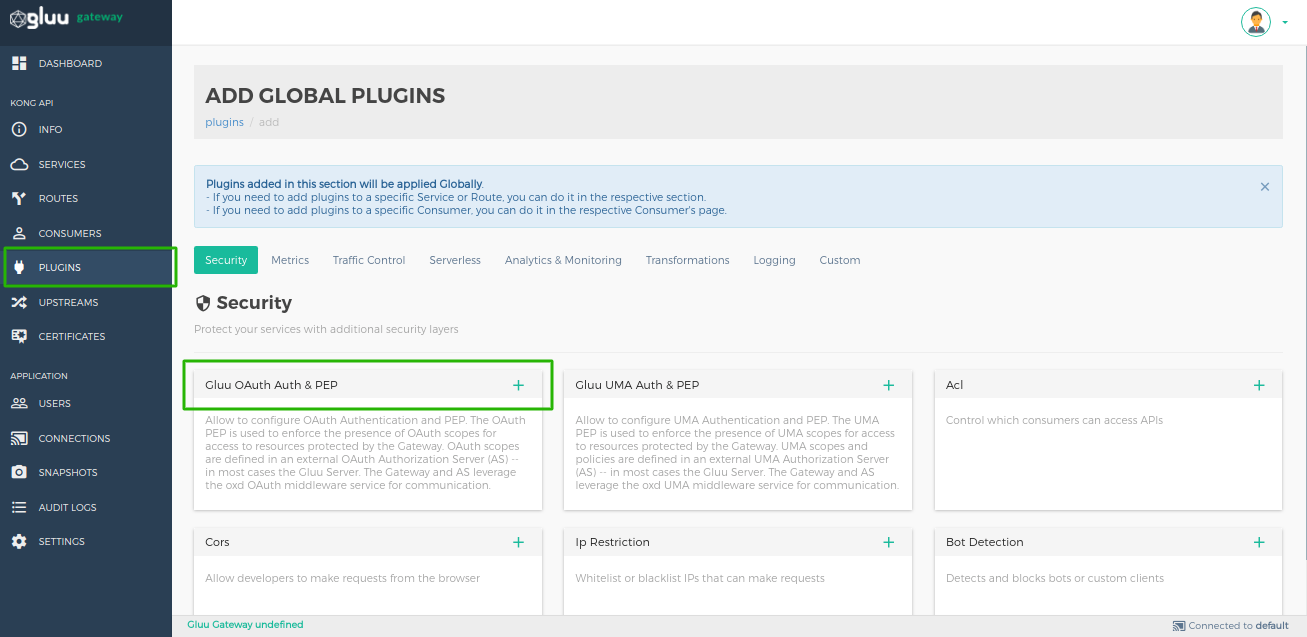
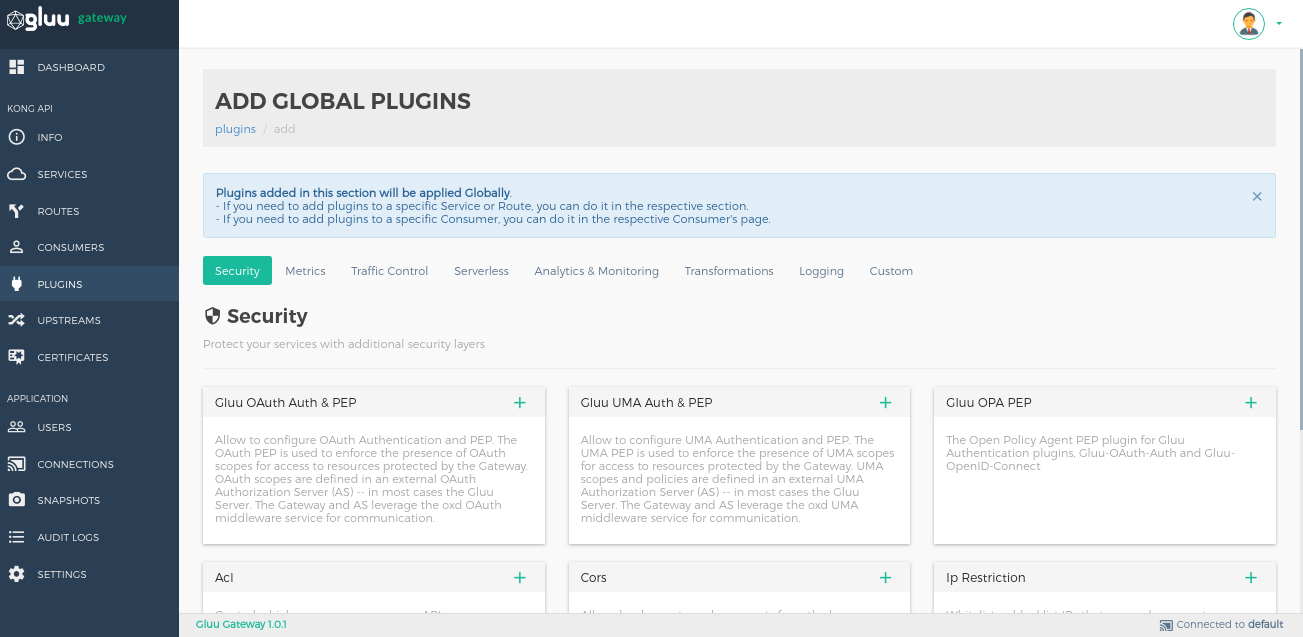
Update description and screenshots

diff --git a/docs/source/plugin/gluu-opa-pep.md b/docs/source/plugin/gluu-opa-pep.md
@@ -1,7 +1,7 @@
 # Gluu OPA PEP
 ## Overview
 
-**`gluu-opa-pep`** authorization plugin which interacts with the [Open Policy Agent](https://www.openpolicyagent.org/). It is executed after the Gluu authentication plugins i.e. `gluu-openid-connect` and `gluu-opa-pep`. After client authentication, data is passed to the `gluu-opa-pep` plugin which calls the OPA authorization endpoint (specified in the configuration). The plugin priority is `996`.
+**`gluu-opa-pep`** authorization plugin which interacts with the [Open Policy Agent](https://www.openpolicyagent.org/). It is executed after the Gluu authentication plugins i.e. `gluu-openid-connect` and `gluu-oauth-auth`. After client authentication, data is passed to the `gluu-opa-pep` plugin which calls the OPA authorization endpoint (specified in the configuration). The plugin priority is `996`.
 
 !!! Important
     You can configured only one PEP plugin. If you have already configured `gluu-uma-pep` or `gluu-oauth-pep` then GG will not allow you to configure `gluu-opa-pep`.
@@ -73,9 +73,9 @@ Below is a sample:
    }
    ```
 
-- `gluu-opa-pep` case: 
+- `gluu-oauth-auth` case: 
 
-     Below is the example of data when authentication plugin is `gluu-opa-pep`. You will get `token introspection` detail in `request_token_data` property.
+     Below is the example of data when authentication plugin is `gluu-oauth-auth`. You will get `token introspection` detail in `request_token_data` property.
    ```json
    {
      "input": {
@@ -159,9 +159,6 @@ Use the [Manage Service](../admin-gui/#manage-service) section in the GG UI to e
 ![11_path_oauth_service](../img/17_opa_service_add.png)
 
 Clicking on the **+** icon will bring up the below form.
-
-!!! important
-    If you don't wanna add `gluu-oauth-pep` plugin then disable button which is on the top.
 
 ![11_path_add_oauth_service](../img/17_opa_form.png)
 

diff --git a/docs/source/plugin/gluu-openid-connect-uma-pep.md b/docs/source/plugin/gluu-openid-connect-uma-pep.md
@@ -238,37 +238,7 @@ At runtime, the plugin sends a request to the RS with an RPT token and checks th
 
 #### Dynamic Resource Protection
 
-There are 3 elements to make more dynamic path registration and protection:
-
-- ? match any one path element
-- ?? match zero or more path elements
-- {regexp} - match single path element against PCRE
-
-The priority for the elements are:
-
-1. Exact match
-1. Regexp match
-1. ?
-1. ??
-
-!!! Note
-    slash(/) is required before multiple wildcards placeholder.
-    
-Examples: 
-
-Assume that below all path is register in one plugin
-
-| Register Path | Allow path | Deny path |
-|---------------|------------|-----------|
-| `/folder/file.ext` | <ul><li>/folder/file.ext</li></ul> | <ul><li>/folder/file</li></ul> |
-| `/folder/?/file` | <ul><li>/folder/123/file</li> <li>/folder/xxx/file</li></ul> | |
-| `/path/??` | <ul><li>/path/</li> <li>/path/xxx</li> <li>/path/xxx/yyy/file</li></ul> | <ul><li>/path - Need slash at last</li></ul> |
-| `/path/??/image.jpg` | <ul><li>/path/one/two/image.jpg</li> <li>/path/image.jpg</li></ul> | |
-| `/path/?/image.jpg` | <ul><li>/path/xxx/image.jpg - ? has higher priority than ??</li></ul> | |
-| `/path/{abc|xyz}/image.jpg` | <ul><li>/path/abc/image.jpg</li> <li>/path/xyz/image.jpg</li></ul> | |
-| `/users/?/{todos|photos}` | <ul><li>/users/123/todos</li> <li>/users/xxx/photos</li></ul> | |
-| `/users/?/{todos|photos}/?` | <ul><li>/users/123/todos/</li> <li>/users/123/todos/321</li> <li>/users/123/photos/321</li></ul> | |
-
+There are 3 elements to make more dynamic path registration and protection. Check [here](../common-features/#dynamic-resource-protection) for more details.
 
 ## Usage
 

diff --git a/docs/source/admin-gui.md b/docs/source/admin-gui.md
@@ -188,7 +188,7 @@ Some plugins can be configured for each specific consumer. This section will als
 
 ### Create Client
 
-Click on the `+ CREATE CLIENT` button to create OP client. It will create a client with `openid` and `oxd` scopes and with the `client_credentials` grant type.
+Click on the `+ CREATE CLIENT` button to create OP client. It will create a client with the `client_credentials` grant type. It creates a client using OXD `register-site` API, so you can use direct OXD API also.
 
 ![4_consumer_client](img/4_consumer_client.png)
 
@@ -200,6 +200,7 @@ Click on the `+ CREATE CLIENT` button to create OP client. It will create a clie
 | **Access Token as JWT**(optional) | It will create client with `Access Token as JWT:true`, It is used to return the access token as a JWT. The Gluu OAuth PEP plugin supports JWT access tokens.|
 | **RPT as JWT**(optional) |It will create client with `RPT as JWT:true`. It is used to return access token(RPT) as JWT. The Gluu UMA PEP plugin supports JWT RPT access tokens.|
 | **Token signing algorithm**(optional) | The default token signing algorithm for the client. It is used for both OAuth access tokens and UMA RPT tokens. Currently, plugins only support 3 algorithms: **RS256**, **RS384** and **RS512**.|
+| **Scope**|The scope for the OP Client. `uma_protection` is required in UMA(gluu-uma-auth plugin) authentication case. Note: Press Enter to accept a value.|
 
 ## Plugins
 

diff --git a/docs/source/plugin/gluu-metrics.md b/docs/source/plugin/gluu-metrics.md
@@ -2,7 +2,7 @@
 ## Overview
 The metrics plugin gathers statistics for authentication-related events generated by Gluu Gateway against its associated Gluu Server. Metrics are exposed in Prometheus exposition format, which can be scraped by a Prometheus Server.
 
-After setup Gluu Gateway, you will see this plugin is by default setup globally and `ip restriction` plugin for one service which is used to collect the transaction and usage on our side that is `license.gluu.org`. which request your server twice in a day to collect metrics.
+After [setup](../../installation) Gluu Gateway, you will see this plugin is by default setup globally and `ip restriction` plugin for one service which is used to collect the transaction and usage on our side that is `license.gluu.org`. which request your server twice in a day to collect metrics.
 
 ## Configuration
 
